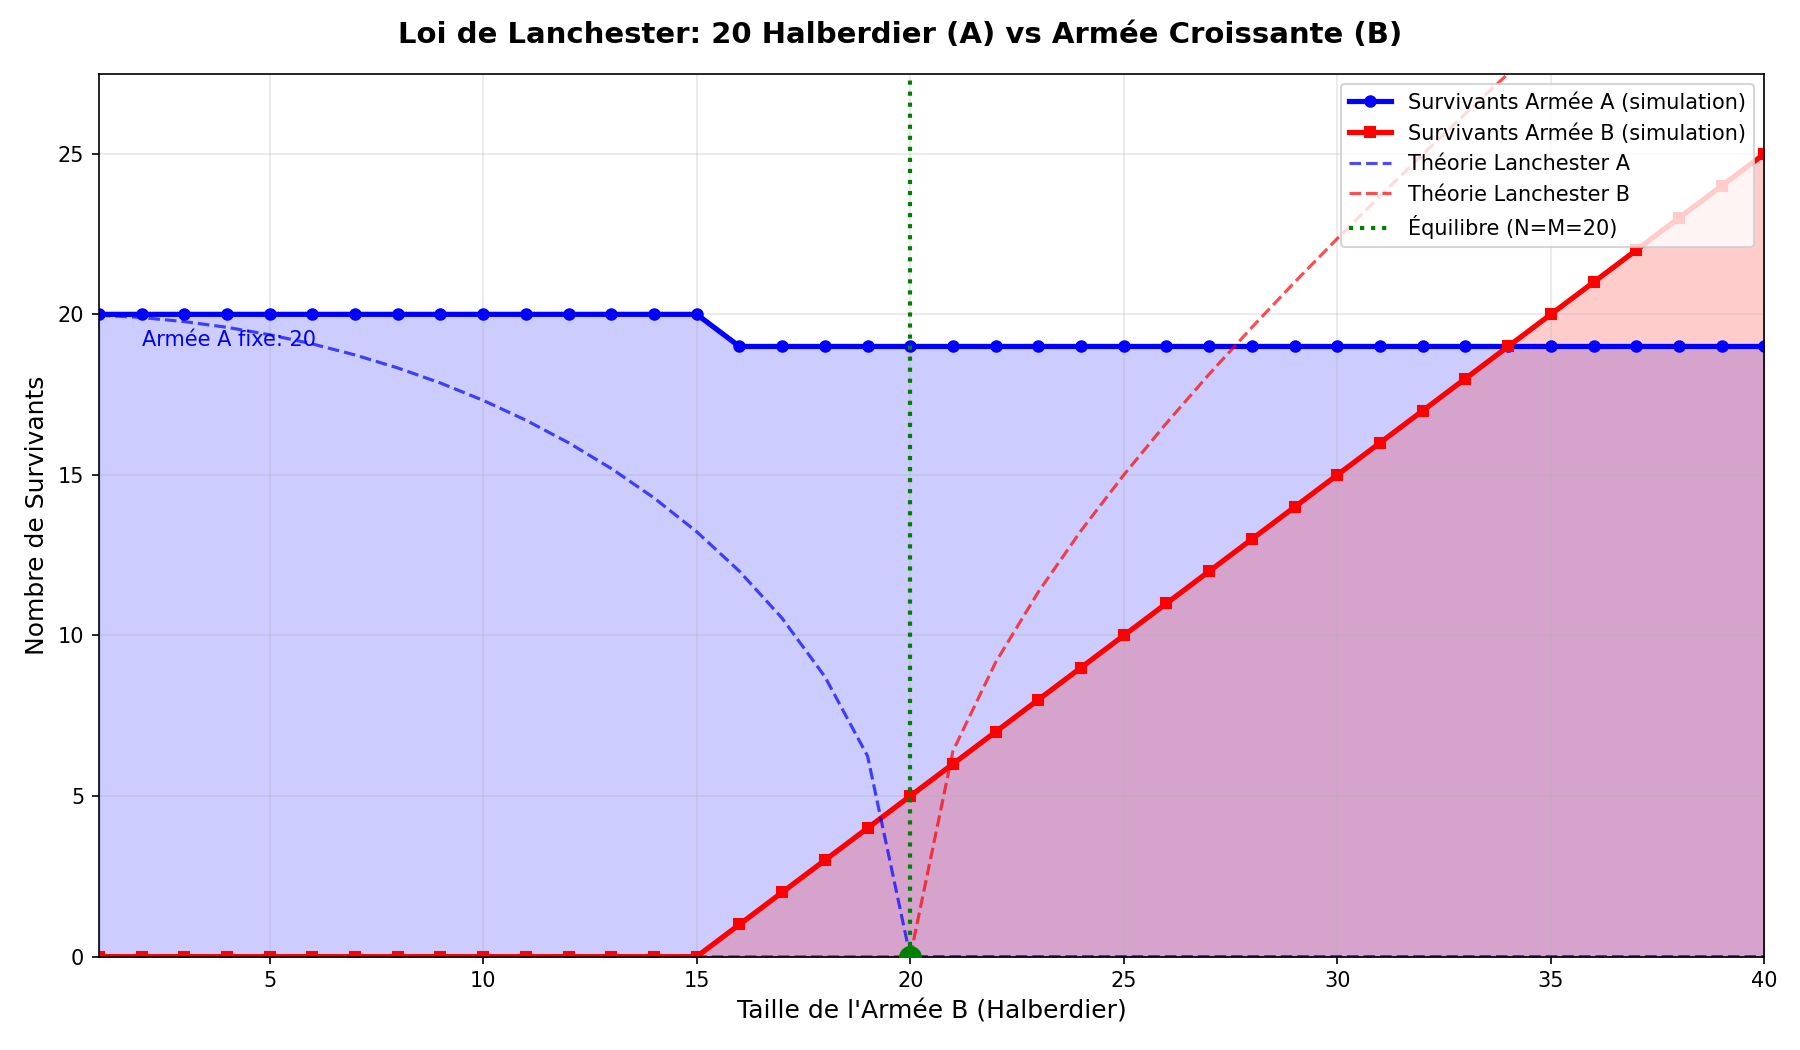
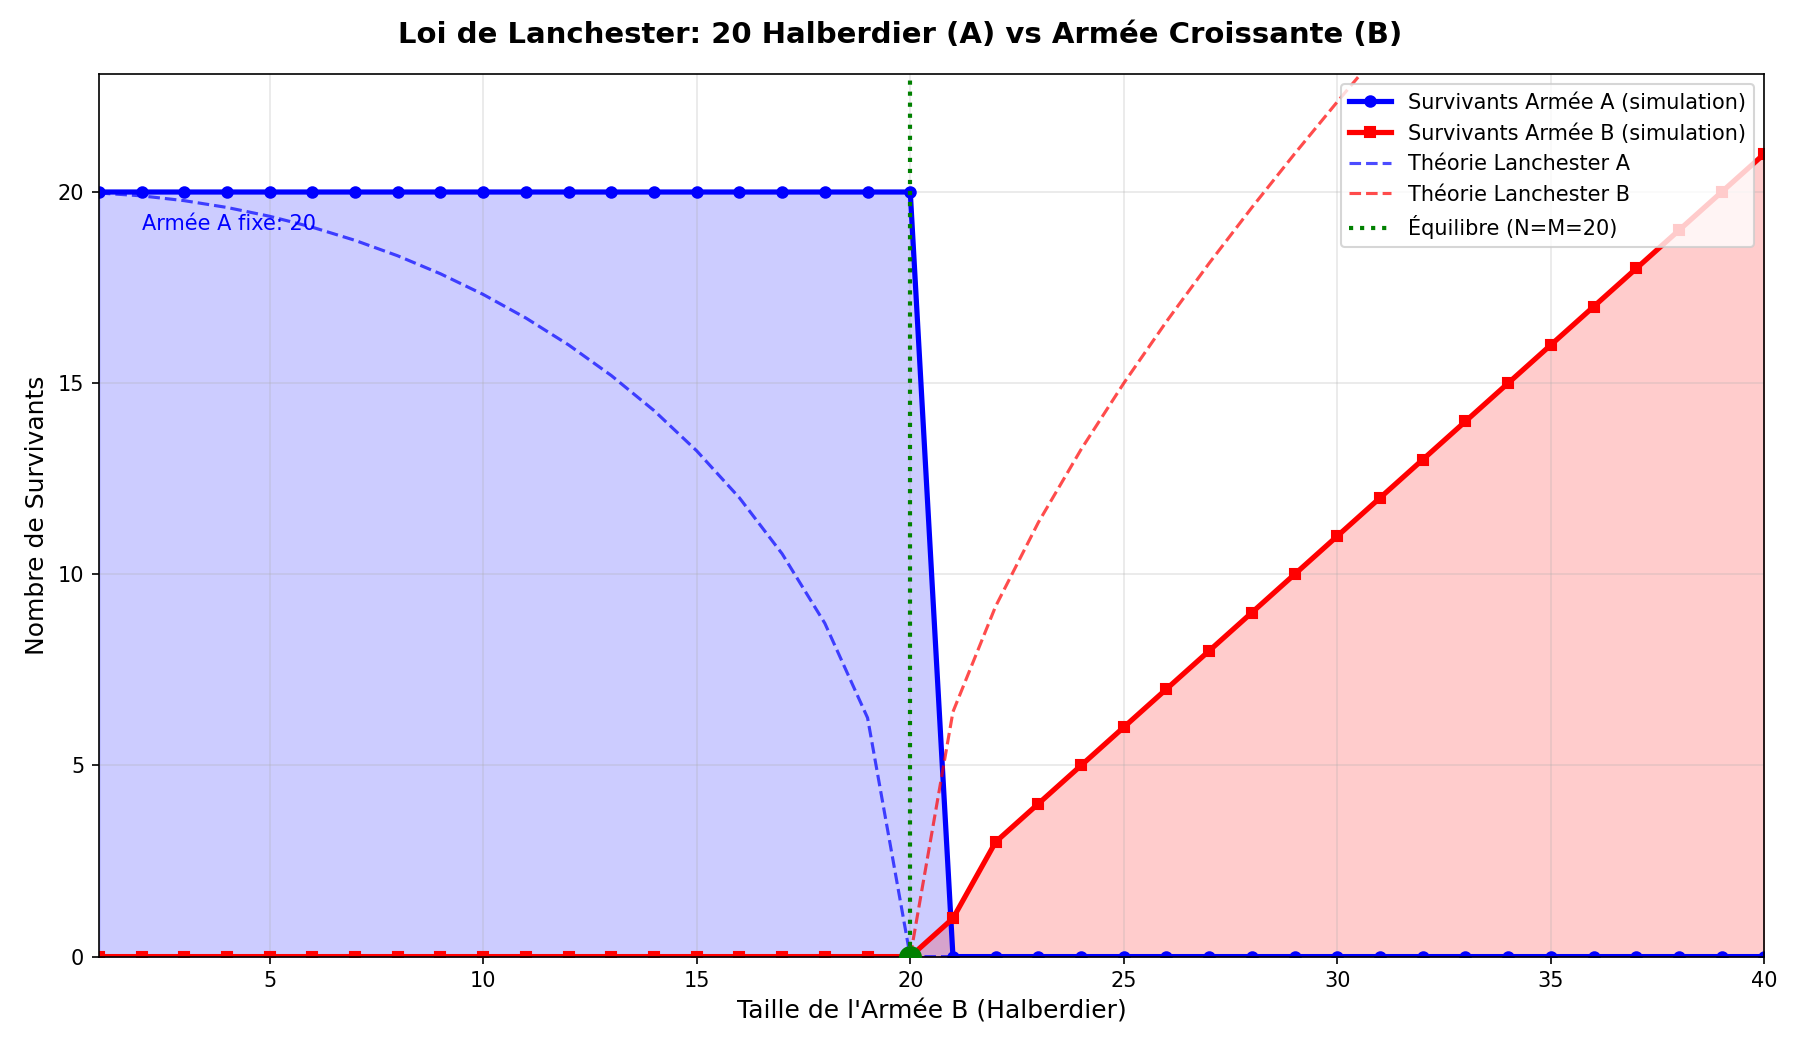
loi de lanchester meilleur

diff --git a/main.py b/main.py
@@ -102,7 +102,6 @@ def _setup_headless_game(config_0, config_1, width=60, height=34):
         "Arbalester": Arbalester
     }
     
-    # Normalize unit type names (handle typos)
     def normalize_key(key):
         key_lower = key.lower()
         if "halber" in key_lower or "halbar" in key_lower:
@@ -319,7 +318,6 @@ def run_headless_battle(config_0, config_1, ai1_class, ai2_class, max_turns=1000
     winner = None
     virtual_time = 0.0
     
-    # Historique pour graphique d'évolution
     history_0 = []
     history_1 = []
     history_turns = []
@@ -331,7 +329,6 @@ def run_headless_battle(config_0, config_1, ai1_class, ai2_class, max_turns=1000
         alive_0 = [s for s in game.all_soldats if s.team == 0 and s.is_alive]
         alive_1 = [s for s in game.all_soldats if s.team == 1 and s.is_alive]
         
-        # Enregistrer l'historique si demandé
         if track_history:
             history_turns.append(turn)
             history_0.append(len(alive_0))
@@ -365,7 +362,6 @@ def run_headless_battle(config_0, config_1, ai1_class, ai2_class, max_turns=1000
     
     result = _get_result_dict(game, turn, winner, ai1_class, ai2_class, initial_counts)
     
-    # Ajouter l'historique au résultat si demandé
     if track_history:
         result["history"] = {
             "turns": history_turns,
@@ -405,7 +401,6 @@ PV Totaux 0 : {result['remaining_hp'][0]}
 PV Totaux 1 : {result['remaining_hp'][1]}
 ======================================
 """
-    # Create statistiques folder if it doesn't exist
     if not os.path.exists("statistiques"):
         os.makedirs("statistiques")
     
@@ -730,7 +725,7 @@ def run_graphical_battle(config_0, config_1, ai1_class, ai2_class, load_file=Non
 # ═══════════════════════════════════════════════════════════════════════════════
 def _run_batch_battle(args):
     config_0, config_1, ai1_class, ai2_class = args
-    return run_headless_battle(config_0, config_1, ai1_class, ai2_class, max_turns=2000, width=30, height=20)
+    return run_headless_battle(config_0, config_1, ai1_class, ai2_class, max_turns=10000, width=50, height=40)
 
 
 # ═══════════════════════════════════════════════════════════════════════════════
@@ -784,8 +779,8 @@ def cmd_plot(args):
     print("=" * 60)
     
     x_enemy_counts = list(range(min_enemy, max_enemy + 1))
-    y_survivors_A = []  # Survivants moyens de l'armée A (équipe 0)
-    y_survivors_B = []  # Survivants moyens de l'armée B (équipe 1)
+    y_survivors_A = []  
+    y_survivors_B = []  
     
     total_steps = len(x_enemy_counts)
     
